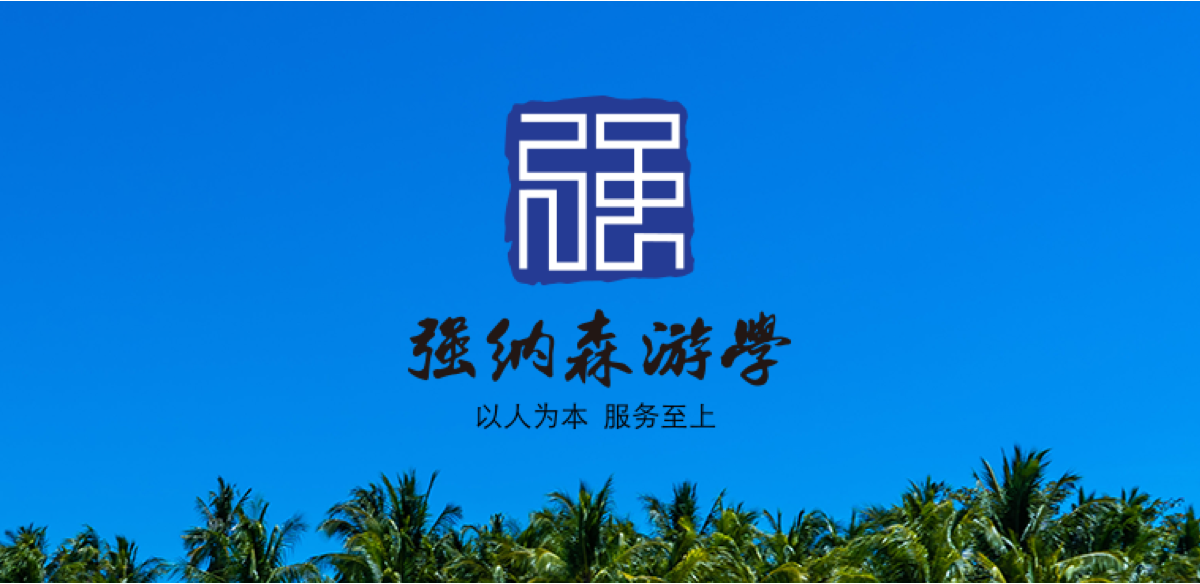
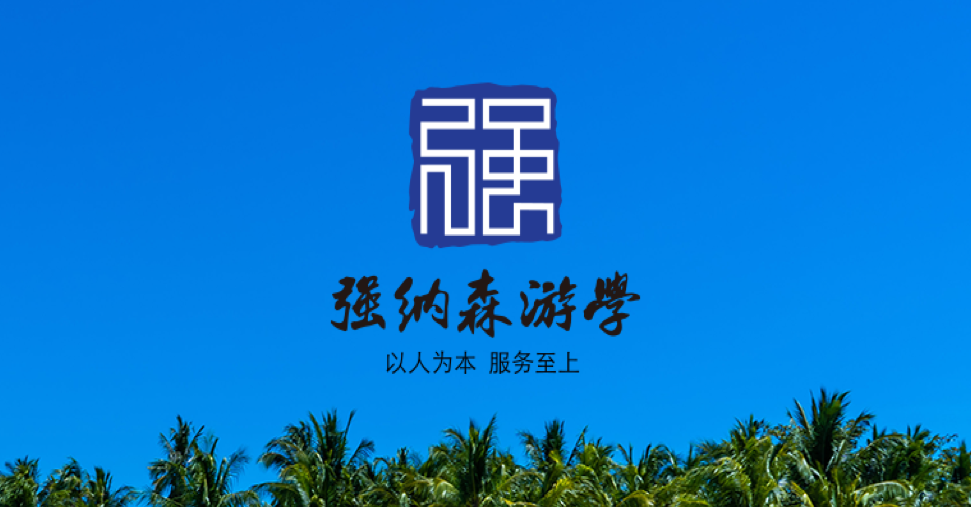
完成

diff --git a/css/index.css b/css/index.css
@@ -146,6 +146,7 @@
     -webkit-box-direction: normal;
     -ms-flex-direction: column;
     flex-direction: column;
+    background: rgba(0,0,0,.4);
     position: absolute;
     left: 0;
     top: 0;
@@ -163,28 +164,7 @@
     width: 100%;
     background-color: #eeeeee;
 }
-.video-wrap .title{
-    height: 228px;
-    display: -webkit-box;
-    display: -ms-flexbox;
-    display: flex;
-    -webkit-box-align: center;
-    -ms-flex-align: center;
-    align-items: center;
-    -webkit-box-pack: center;
-    -ms-flex-pack: center;
-    justify-content: center;
-    -webkit-box-orient: vertical;
-    -webkit-box-direction: normal;
-    -ms-flex-direction: column;
-    flex-direction: column;
-}
-.video-wrap .title h3{
-    font-size: 30px;
-}
-.video-wrap .title h4{
-    font-size: 14px;
-}
+
 .video-wrap .video{
     width: 1200px;
     height: 680px;
@@ -250,14 +230,21 @@
 
 /* 公共小标题 */
 .decTit{
-    height: 106px;
-    line-height: 106px;
+    height: 70px;
+    line-height: 70px;
     font-size: 30px;
+    padding-bottom: 60px;
 }
 
 /* 故事 */
-.story-wrap img{
+.story-wrap{
+    width: 971px;
+    display: block;
     margin: 48px auto 0;
+    display: block;
+}
+.story-wrap img{
+    width: 100%;
 }
 
 /* 优质学校 */
@@ -319,14 +306,14 @@
 
 /* 公共链接 */
 .more-link{
-    width: 652px;
-    height: 100px;
-    line-height: 100px;
-    font-size: 30px;
+    width: 388px;
+    height: 90px;
+    line-height: 90px;
+    font-size: 24px;
     font-weight: 400;
     text-align: center;
     background-color: #253b94;
-    border-radius: 55px;
+    border-radius: 15px;
     margin: 0 auto;
 }
 .more-link a{

diff --git a/index.html b/index.html
@@ -95,7 +95,7 @@
 				</ul>
 				<div class="slideshow-filter"></div>
 				<div class="show-content inner-wrap">
-					<div class="logo"><img src="./images/logo.png" /></div>
+					<div class="logo"><img src="./images/logo2.png" /></div>
 					<div class="idea">以人为本 服务至上</div>
 				</div>
 			</div>
@@ -182,18 +182,20 @@
 					</div>
 					<div class="video">
 						<div class="prism-player" id="player-con"></div>
-						<!-- <div class="more">
+						<div class="more">
 							<a href="#">更多视频<span class="icon">&gt;</span></a>
-						</div> -->
+						</div>
 					</div>
 					<p class="decTit">学员毕业演讲</p>
 				</div>
 			</div>
 
 			<!-- 故事 -->
-			<div class="story-wrap inner-wrap">
-				<img src="./images/00story-img.png" />
-				<p class="decTit">强纳森故事</p>
+			<div class="inner-wrap">
+				<div class="story-wrap">
+					<img src="./images/00story-img.png" />
+					<p class="decTit">强纳森故事</p>
+				</div>
 			</div>
 
 			<!-- 优质学校 -->

diff --git a/about.html b/about.html
@@ -236,7 +236,9 @@
 
                
                 <p class="cost-description">学校的费用包含:课程/住宿费用/一日三餐/洗衣/定<br/>期房间打理，可以根据个人的经济预算选择定制课程<br/>和房型哦~快来联系强纳森定制吧~~！</p>
-                <div class="consultBtn"><i class="icon"><img src="./images/tel-icon-md.png" /></i>立即咨询</div>
+                <div class="consultBtn">
+                    <!-- <i class="icon"><img src="./images/tel-icon-md.png" /></i>立即咨询 -->
+                </div>
                                
             </div>
             

diff --git a/css/about.css b/css/about.css
@@ -79,9 +79,9 @@
     margin-bottom: 80px;
 }
 .content .consultBtn{
-	width: 682px;
-	height: 120px;
-	font-size: 28px;
+	width: 290px;
+	height: 70px;
+	font-size: 24px;
 	color: #fff;
 	display: -webkit-box;
 	display: -ms-flexbox;
@@ -93,10 +93,14 @@
 	-ms-flex-pack: center;
 	justify-content: center;
 	border-radius: 12px;
-	background-color: #7ed321;
+    background: url(../images/consulting-btn-icon.png) no-repeat;
     cursor: pointer;
     margin: 0 auto;
+    transition: all .3s;
 	
+}
+.content .consultBtn:hover{
+    transform: scale(1.1);
 }
 .content .consultBtn .icon{
 	margin-right: 7px;

diff --git a/css/banner.css b/css/banner.css
@@ -154,13 +154,9 @@
 	z-index: 3;
 	transform: translate(-50%,-50%);
 }
-.show-content .logo{
-	width: 260px;
-	height: ;
-}
+
 .show-content .logo{
     width: 260px;
-	height: 100%;
 	margin: 0 auto;
 	display: -webkit-box;
 	display: -ms-flexbox;
@@ -174,5 +170,6 @@
 }
 .show-content .idea{
 	font-size: 78px;
+	color: #ffffff;
 	font-family: 'pangmenzhengdao';
 }

diff --git a/css/base.css b/css/base.css
@@ -97,14 +97,16 @@ li{
 	align-items: center;
 }
 .header .top .inner-wrap>div{
+	height: 30px;
+	display: flex;
+	align-items: center;
 	margin-right: 45px;
 }
 .header .top .icon{
 	width: 30px;
 	height: 30px;
 	display: inline-block;
-	vertical-align: middle;	
-	margin-right: 15px;
+	margin-right: 5px;
 }
 .header .top .icon img{
 	width: 100%;

diff --git a/css/student-life.css b/css/student-life.css
@@ -19,8 +19,8 @@
 /* 公共标题 */
 .headline{
     width: 1200px;
-    height: 172px;
-    line-height: 172px;
+    height: 130px;
+    line-height: 130px;
     text-align: center;
     font-size: 40px;
     margin: 0 auto;
